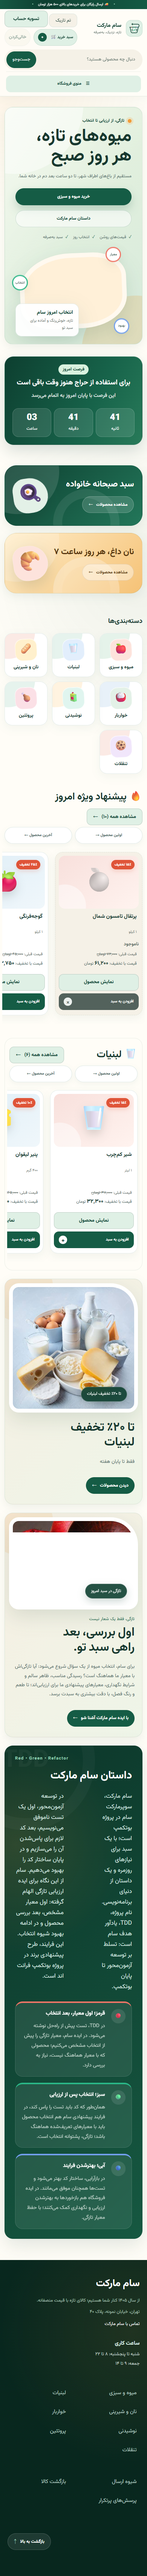
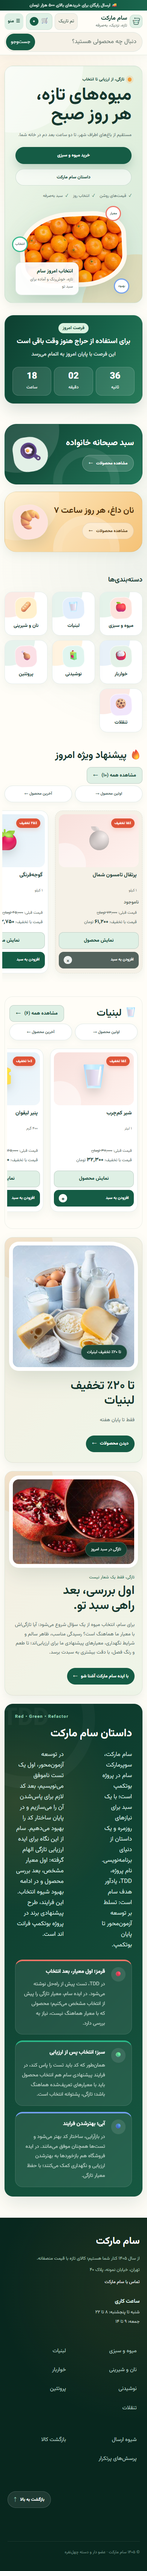
fix: make header more responsive

diff --git a/style.css b/style.css
@@ -415,20 +415,6 @@ footer nav {
 }
 
 @media (max-width: 60rem) {
-  .header-content {
-    flex-wrap: wrap;
-  }
-
-  .search {
-    order: 3;
-    width: 100%;
-  }
-
-  .search input {
-    flex: 1;
-    min-width: 0;
-  }
-
   .primary-navigation {
     justify-content: start;
     overflow-x: auto;
@@ -849,10 +835,6 @@ footer.is-fragment-target {
 }
 
 @media (max-width: 60rem) {
-  :root {
-    --header-offset: 22rem;
-  }
-
   .section-heading {
     flex-direction: column;
     align-items: start;
@@ -1338,28 +1320,7 @@ footer.is-fragment-target {
 }
 
 @media (max-width: 60rem) {
-  :root { --header-offset: 16rem; }
-
-  .header-content {
-    grid-template-columns: 1fr auto;
-    gap: .65rem;
-  }
-
-  .search {
-    grid-column: 1 / -1;
-    grid-row: 2;
-    justify-self: stretch;
-    width: 100%;
-  }
-
-  .mobile-menu {
-    width: min(100% - 2rem, var(--container));
-    padding-block: .5rem;
-    border-top: 1px solid rgb(21 92 69 / 8%);
-  }
-
   .mobile-menu > summary {
-    min-height: 2.65rem;
     padding: .35rem .7rem;
     color: var(--green-deep);
     background: var(--green-soft);
@@ -1368,7 +1329,6 @@ footer.is-fragment-target {
   }
 
   .mobile-navigation {
-    top: calc(100% - .2rem);
     padding: .85rem;
     background: rgb(255 255 255 / 98%);
     border-color: rgb(21 92 69 / 14%);
@@ -1391,44 +1351,6 @@ footer.is-fragment-target {
 }
 
 @media (max-width: 38rem) {
-  :root { --header-offset: 15rem; }
-
-  .announcement {
-    font-size: .64rem;
-  }
-
-  .header-content {
-    min-height: auto;
-  }
-
-  .brand-mark {
-    width: 3.2rem;
-    height: 3.2rem;
-  }
-
-  .brand strong {
-    font-size: 1rem;
-  }
-
-  .brand small,
-  .cart {
-    font-size: 0;
-  }
-
-  .cart {
-    width: 2.9rem;
-    padding: .4rem;
-  }
-
-  .cart strong {
-    font-size: .7rem;
-  }
-
-  .search button {
-    padding-inline: .9rem;
-    font-size: .75rem;
-  }
-
   .hero {
     padding: 2.2rem 1.15rem 1.4rem;
     border-radius: 1.4rem;
@@ -2812,22 +2734,90 @@ main > .store-sections article > span { width: 3rem; height: 3rem; font-size: 1.
 #about > .store-sections article { min-height: 10rem; padding: 1rem; }
 footer { padding-block: clamp(2.5rem, 5vw, 4rem); }
 
+.cart-panel-actions { display: none; }
+
 @media (max-width: 60rem) {
   :root { --header-offset: 9rem; }
-  .header-content {
-    grid-template-columns: auto minmax(11rem, 1fr) auto;
-    gap: .55rem;
-    min-height: 3.9rem;
-    padding-block: .25rem;
+
+  .site-header {
+    display: grid;
+    grid-template-columns: minmax(0, 1fr) auto auto auto;
+    align-items: center;
+    gap: .4rem;
+    padding: 0 .75rem .5rem;
+    backdrop-filter: none;
   }
+
+  .announcement {
+    grid-area: 1 / 1 / auto / -1;
+    margin-inline: -.75rem;
+    font-size: .72rem;
+    animation: none;
+  }
+
+  .announcement::before,
+  .announcement::after { content: none; }
+
+  .header-content,
+  .header-actions,
+  .header-actions .cart-actions { display: contents; }
+
+  .brand { grid-area: 2 / 1; gap: .4rem; min-inline-size: 0; min-block-size: 2.75rem; }
+  .brand-mark { width: 2.5rem; height: 2.5rem; border-radius: .7rem; }
+  .brand strong { font-size: .98rem; white-space: nowrap; }
+  .brand small { font-size: .68rem; white-space: normal; }
+
+  .theme-toggle { grid-area: 2 / 2; }
+  .site-header .cart-widget { grid-area: 2 / 3; position: static; }
+  .cart { gap: .35rem; }
+  .cart-icon { font-size: 1rem; }
+  .cart strong { flex-shrink: 0; }
+
+  .theme-toggle,
+  .cart,
+  .mobile-menu > summary {
+    min-block-size: 2.75rem;
+    padding: .3rem .55rem;
+    font-size: .76rem;
+    border-radius: .75rem;
+  }
+
   .search {
-    grid-column: auto;
-    grid-row: auto;
+    grid-area: 3 / 1 / auto / -1;
     width: 100%;
+    padding: .2rem;
+    border-color: var(--line);
   }
-  .cart { min-block-size: 2.5rem; }
-  .mobile-menu { padding-block: .65rem; }
-  .mobile-menu > summary { min-height: 2.75rem; min-block-size: 2.75rem; padding-block: .2rem; font-size: .7rem; }
+
+  .search input,
+  .search button { min-block-size: 2.75rem; }
+  .search input { padding-inline: .75rem; font-size: 1rem; }
+  .search button { flex: 0 0 auto; padding-inline: .8rem; font-size: .8rem; white-space: nowrap; }
+
+  .mobile-menu { grid-area: 2 / 4; position: static; width: auto; margin: 0; padding: 0; }
+  .mobile-menu > summary { gap: .35rem; white-space: nowrap; }
+
+  .header-actions > .checkout-link,
+  .cart-actions > .clear-cart { display: none; }
+
+  .cart-panel-actions { display: flex; flex-wrap: wrap; gap: .5rem; margin-block-start: .7rem; }
+  .cart-panel-actions .checkout-link,
+  .cart-panel-actions .clear-cart { min-block-size: 2.75rem; border-radius: .75rem; }
+
+  .mobile-navigation,
+  .site-header .cart-panel {
+    inset-block-start: calc(100% + .25rem);
+    inset-inline: .75rem;
+    width: auto;
+    max-block-size: min(60dvh, 24rem);
+    overflow-y: auto;
+    overscroll-behavior: contain;
+  }
+
+  .mobile-navigation { z-index: 49; }
+  .mobile-menu:focus-within .mobile-navigation { z-index: 51; }
+  .site-header .cart-row button { min-block-size: 2.75rem; min-inline-size: 2.75rem; }
+
   .hero { gap: 1rem; }
   .hero-visual { min-height: 20rem; }
   .category-grid a { min-height: 8.75rem; }
@@ -2837,28 +2827,6 @@ footer { padding-block: clamp(2.5rem, 5vw, 4rem); }
 }
 
 @media (max-width: 38rem) {
-  :root { --header-offset: 11.5rem; }
-  .announcement { font-size: .58rem; }
-  .header-content { grid-template-columns: 1fr auto; }
-  .header-actions { flex-direction: column; align-items: flex-end; gap: .2rem;}
-  .brand-mark { width: 2.75rem; height: 2.75rem; }
-  .brand strong { font-size: .92rem; }
-  .search {
-    display: flex;
-    grid-column: 1 / -1;
-    grid-row: 2;
-    min-width: 0;
-  }
-  .search input { min-width: 0; }
-  .search button { flex: 0 0 auto; }
-  .cart {
-    width: auto;
-    min-width: max-content;
-    min-height: 2.75rem;
-    min-block-size: 2.75rem;
-    padding-inline: .65rem;
-    font-size: .68rem;
-  }
   .hero { padding-block: 1.6rem 1rem; }
   .hero h1 { font-size: clamp(2.25rem, 12vw, 3.25rem); }
   .hero-visual { min-height: 15rem; }
@@ -2891,6 +2859,27 @@ footer { padding-block: clamp(2.5rem, 5vw, 4rem); }
     justify-content: center;
     padding-inline: .5rem;
   }
+}
+
+@media (max-width: 26rem) {
+  .brand-mark { width: 2.15rem; height: 2.15rem; }
+
+  .cart-label {
+    position: absolute;
+    width: 1px;
+    height: 1px;
+    overflow: hidden;
+    clip-path: inset(50%);
+  }
+}
+
+@media (max-width: 22rem) {
+  .site-header { column-gap: .3rem; }
+  .brand { gap: .32rem; }
+
+  .theme-toggle,
+  .cart,
+  .mobile-menu > summary { padding-inline: .42rem; }
 }
 
 @media (max-width: 22rem) {

diff --git a/src/components/CartPanel.tsx b/src/components/CartPanel.tsx
@@ -1,4 +1,5 @@
 import { useEffect } from 'react'
+import { Link } from '@tanstack/react-router'
 import type { Product, Offer } from '../shared/types'
 import { useCartStore } from '../hooks/useCartStore'
 import { cartCount, cartTotal } from '../features/cart/cart'
@@ -40,7 +41,7 @@ export default function CartPanel({ products, offers }: CartPanelProps) {
         <div className="cart-actions">
             <details className="cart-widget">
                 <summary className="cart">
-                    سبد خرید 🛒 <strong aria-live="polite">{formatPrice(count)}</strong>
+                    <span><span className="cart-label">سبد خرید</span> <span className="cart-icon" aria-hidden="true">🛒</span></span> <strong aria-live="polite">{formatPrice(count)}</strong>
                 </summary>
                 <div className="cart-panel">
                     {cart.length === 0 ? <p>سبد خرید خالی است.</p> : cart.map(line => {
@@ -55,6 +56,13 @@ export default function CartPanel({ products, offers }: CartPanelProps) {
                         )
                     })}
                     <p className="cart-total">جمع: {formatPrice(total)} تومان</p>
+                    <div className="cart-panel-actions">
+                        <Link className="listing-link checkout-link" to="/checkout" onClick={event => {
+                            const details = event.currentTarget.closest('details')
+                            if (details) details.open = false
+                        }}>تسویه حساب</Link>
+                        <button className="clear-cart" type="button" onClick={handleClear} disabled={count === 0}>خالیکردن سبد</button>
+                    </div>
                 </div>
             </details>
             <button className="clear-cart" type="button" onClick={handleClear} disabled={count === 0}>

diff --git a/src/components/CategoryNav.tsx b/src/components/CategoryNav.tsx
@@ -38,7 +38,7 @@ export default function CategoryNav({ categories, shopLinks, activeCategoryId }:
                 </div>
             </nav>
             <details className="mobile-menu">
-                <summary><span aria-hidden="true">☰</span> منوی فروشگاه</summary>
+                <summary aria-label="منوی فروشگاه"><span aria-hidden="true">☰</span> منو</summary>
                 <nav className="mobile-navigation" aria-label="منوی اصلی موبایل">
                     {shopLinks.map(renderShopLink)}
                     <details className="mobile-categories">
